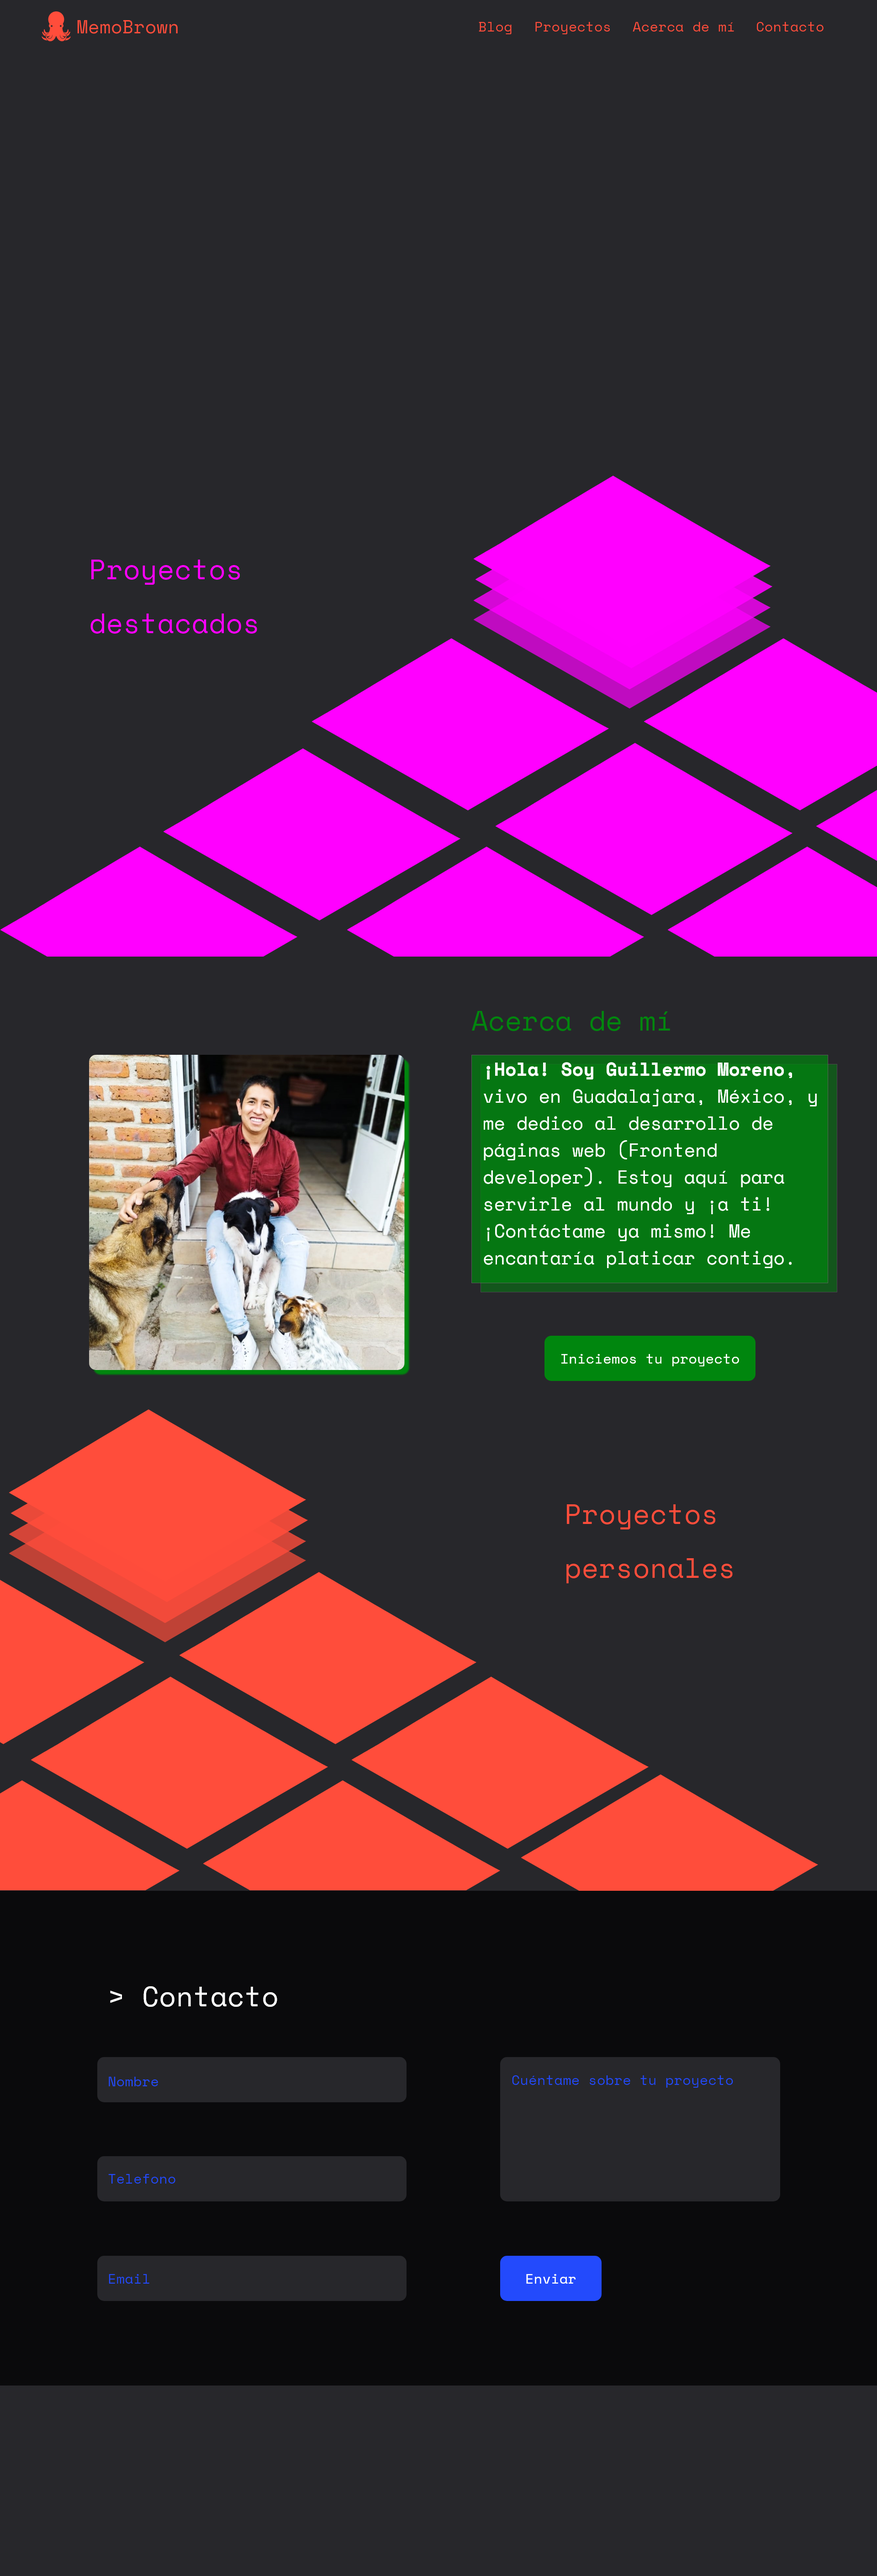
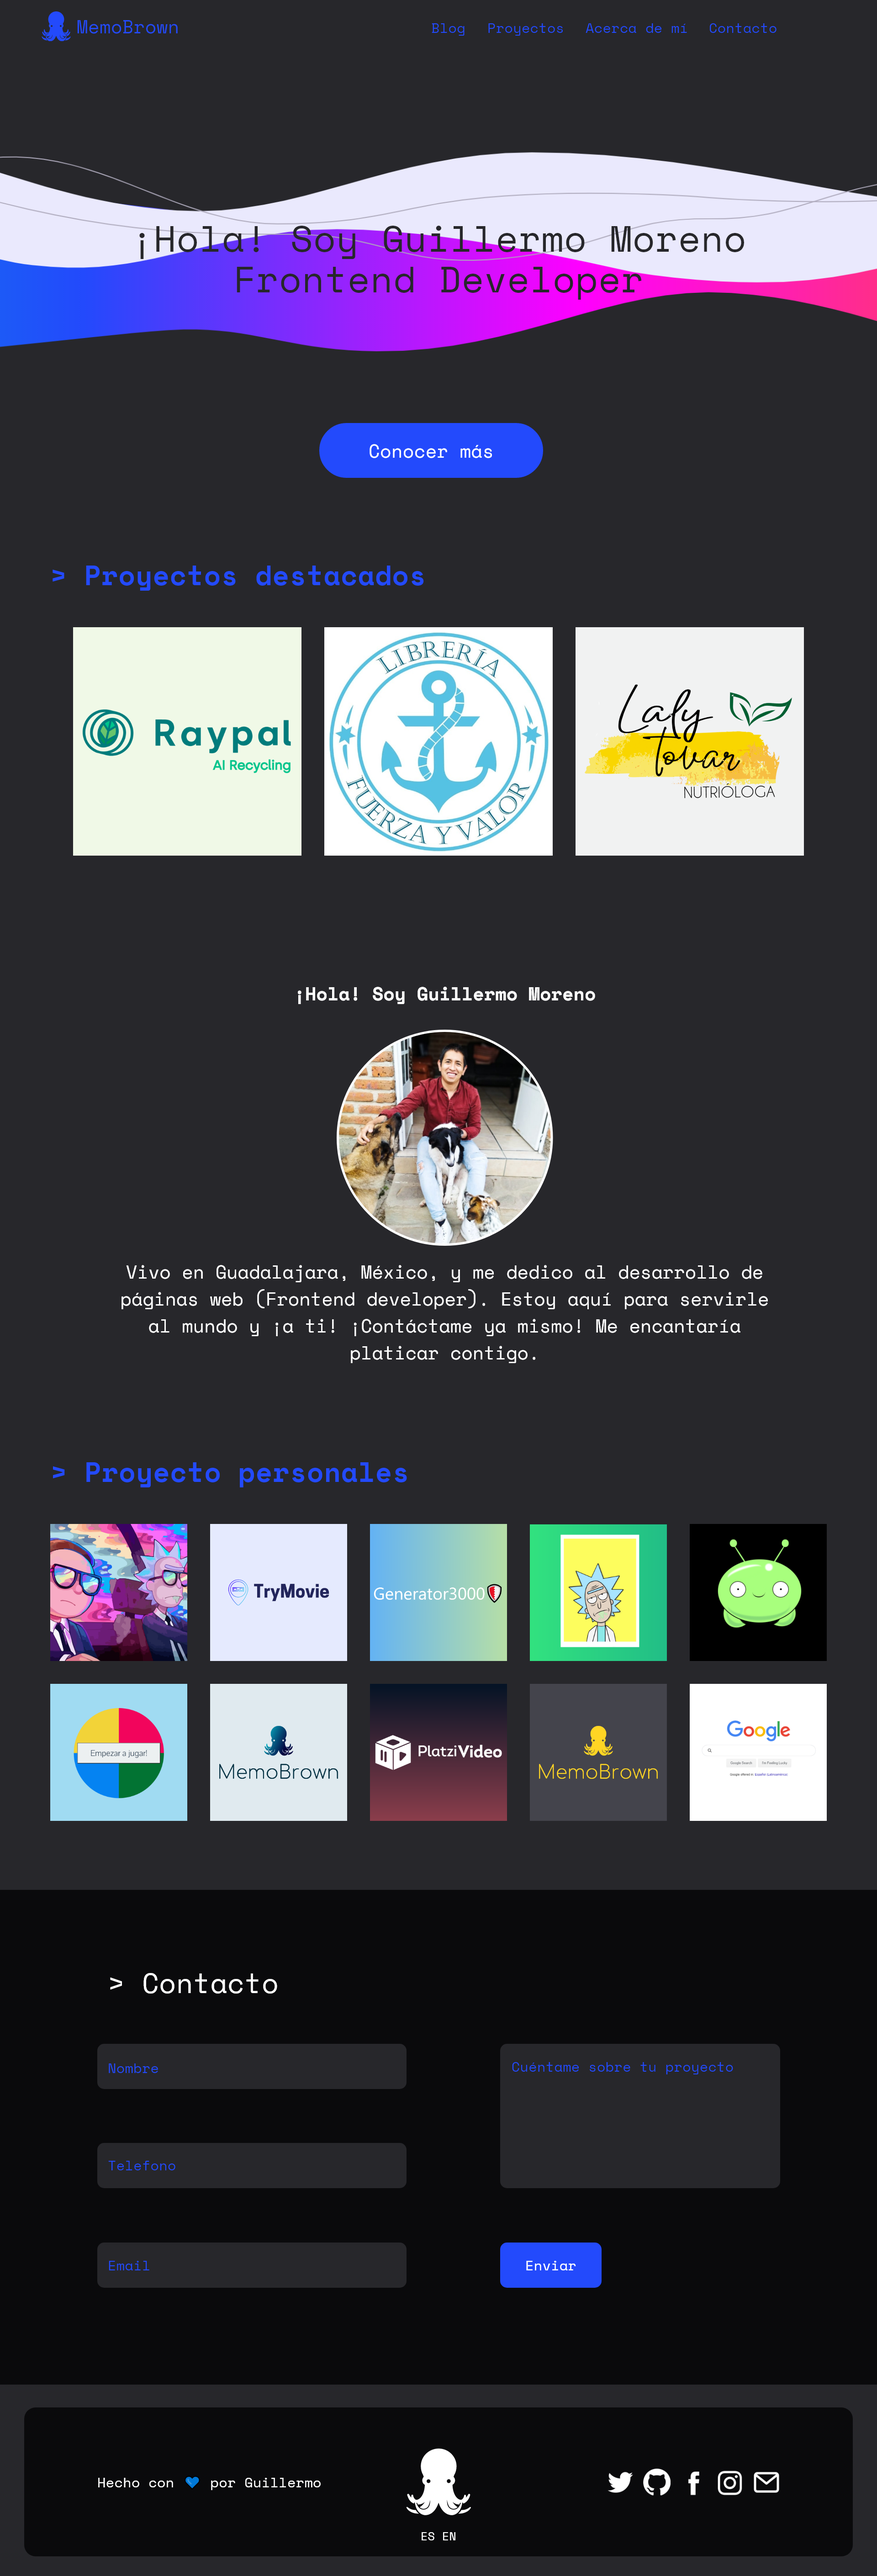
html structure done

diff --git a/index.html b/index.html
@@ -1,0 +1,76 @@
+<!DOCTYPE html>
+<html lang="en">
+<head>
+    <meta charset="UTF-8">
+    <meta name="viewport" content="width=device-width, initial-scale=1.0">
+    <title>Guillermo Moreno | Frontend Developer</title>
+</head>
+<body>
+
+    <header class="header">
+        <figure><img src="src/images/logo.png" alt="Logo"></figure>
+        <nav class="nav">
+            <a href="#">Blog</a>
+            <a href="#">Proyectos</a>
+            <a href="#">Acerca de mí</a>
+            <a href="#">Contacto</a>
+            <a href="#">Dark</a>
+            <a href="#">Light</a>
+        </nav>
+    </header>
+
+    <div class="hero">
+        <h1 class="hero-title">¡Hola! Soy Guillermo Moreno<br>Frontend Developer</h1>
+        <a class="group" id="page-wrap" rel="external noopener"><svg class="logo" width="102" height="96" viewBox="0 0 85 80" preserveAspectRatio="xMinYMin meet"></svg><div id="inner-wrap"><svg class="waves" width="1440" height="321.75" viewBox="0 0 960 214.5" preserveAspectRatio="xMinYMid meet"><defs><style>.waves>path{-webkit-animation:a 17390ms ease-in-out infinite alternate-reverse both;-moz-animation:a 17390ms ease-in-out infinite alternate-reverse both;-ms-animation:a 17390ms ease-in-out infinite alternate-reverse both;-o-animation:a 17390ms ease-in-out infinite alternate-reverse both;animation:a 17390ms ease-in-out infinite alternate-reverse both;-webkit-animation-timing-function:cubic-bezier(.25,0,.75,1);-moz-animation-timing-function:cubic-bezier(.25,0,.75,1);-ms-animation-timing-function:cubic-bezier(.25,0,.75,1);-o-animation-timing-function:cubic-bezier(.25,0,.75,1);animation-timing-function:cubic-bezier(.25,0,.75,1);-webkit-will-change:transform;-moz-will-change:transform;-ms-will-change:transform;-o-will-change:transform;will-change:transform}.waves>path:nth-of-type(1){-webkit-animation-duration:20580ms;-moz-animation-duration:20580ms;-ms-animation-duration:20580ms;-o-animation-duration:20580ms;animation-duration:20580ms}.waves>path:nth-of-type(2){-webkit-animation-delay:-2690ms;-moz-animation-delay:-2690ms;-ms-animation-delay:-2690ms;-o-animation-delay:-2690ms;animation-delay:-2690ms;-webkit-animation-duration:13580ms;-moz-animation-duration:13580ms;-ms-animation-duration:13580ms;-o-animation-duration:13580ms;animation-duration:13580ms}g>path:nth-of-type(1){-webkit-animation-delay:-820ms;-moz-animation-delay:-820ms;-ms-animation-delay:-820ms;-o-animation-delay:-820ms;animation-delay:-820ms;-webkit-animation-duration:10730ms;-moz-animation-duration:10730ms;-ms-animation-duration:10730ms;-o-animation-duration:10730ms;animation-duration:10730ms}.waves>path:nth-of-type(1),g>path:nth-of-type(2){-webkit-animation-direction:alternate;-moz-animation-direction:alternate;-ms-animation-direction:alternate;-o-animation-direction:alternate;animation-direction:alternate}@-webkit-keyframes a{0%{-webkit-transform:translateX(-750px);transform:translateX(-750px)}100%{-webkit-transform:translateX(-20px);transform:translateX(-20px)}}@-moz-keyframes a{0%{-moz-transform:translateX(-750px);transform:translateX(-750px)}100%{-moz-transform:translateX(-20px);transform:translateX(-20px)}}@-ms-keyframes a{0%{-ms-transform:translateX(-750px);transform:translateX(-750px)}100%{-ms-transform:translateX(-20px);transform:translateX(-20px)}}@-o-keyframes a{0%{-o-transform:translateX(-750px);transform:translateX(-750px)}100%{-o-transform:translateX(-20px);transform:translateX(-20px)}}@keyframes a{0%{-webkit-transform:translateX(-750px);-moz-transform:translateX(-750px);-ms-transform:translateX(-750px);-o-transform:translateX(-750px);transform:translateX(-750px)}100%{-webkit-transform:translateX(-20px);-moz-transform:translateX(-20px);-ms-transform:translateX(-20px);-o-transform:translateX(-20px);transform:translateX(-20px)}}</style><linearGradient id="a"><stop stop-color="#00A8DE"/><stop offset="0.2" stop-color="#234AFC"/><stop offset="0.4" stop-color="#FF00FF"/><stop offset="0.6" stop-color="#FF4D3B"/></linearGradient></defs><path fill="url(#a)" d="M2662.6 1S2532 41.2 2435 40.2c-19.6-.2-37.3-1.3-53.5-2.8 0 0-421.3-59.4-541-28.6-119.8 30.6-206.2 75.7-391 73.3-198.8-2-225.3-15-370.2-50-145-35-218 37-373.3 36-19.6 0-37.5-1-53.7-3 0 0-282.7-36-373.4-38C139 26 75 46-1 46v106c17-1.4 20-2.3 37.6-1.2 130.6 8.4 210 56.3 287 62.4 77 6 262-25 329.3-23.6 67 1.4 107 22.6 193 23.4 155 1.5 249-71 380-62.5 130 8.5 209 56.3 287 62.5 77 6 126-18 188-18 61.4 0 247-38 307.4-46 159.3-20 281.2 29 348.4 30 67 2 132.2 6 217.4 7 39.3 0 87-11 87-11V1z"/><path fill="#EAE9FD" d="M2663.6 73.2S2577 92 2529 89c-130.7-8.5-209.5-56.3-286.7-62.4s-125.7 18-188.3 18c-5 0-10-.4-14.5-.7-52-5-149.2-43-220.7-39-31.7 2-64 14-96.4 30-160.4 80-230.2-5.6-340.4-18-110-12-146.6 20-274 36S820.4 0 605.8 0C450.8 0 356 71 225.2 62.2 128 56 60.7 28-.3 11.2V104c22 7.3 46 14.2 70.4 16.7 110 12.3 147-19.3 275-35.5s350 39.8 369 43c27 4.3 59 8 94 10 13 .5 26 1 39 1 156 2 250-70.3 381-62 130.5 8.2 209.5 56.3 286.7 62 77 6.4 125.8-18 188.3-17.5 5 0 10 .2 14.3.6 52 5 145 49.5 220.7 38.2 32-5 64-15 96.6-31 160.5-79.4 230.3 6 340 18.4 110 12 146.3-20 273.7-36l15.5-2V73l1-.5z"/><g fill="none" stroke="#ADA9BB" stroke-width="1"><path d="M0 51.4c3.4.6 7.7 1.4 11 2.3 133.2 34 224.3 34 308.6 34 110.2 0 116.7 36.6 229.8 26 113-11 128.7-44 222-42.6C865 73 889 38 1002 27c113-10.8 119.6 25.6 229.8 25.6 84.4 0 175.4 0 308.6 34 133 34.2 277-73 379.4-84.3 204-22.5 283.6 128.7 283.6 128.7"/><path d="M0 6C115.7-6 198.3 76.6 308 76.6c109.6 0 131.8-20 223-28.3 114.3-10.2 238.2 0 238.2 0s124 10.2 238.3 0c91-8.2 113.2-28 223-28S1425 103 1541 91c115.8-11.8 153.3-69 269.3-84.6 116-15.5 198.4 71 308 71 109.8 0 131.8-20 223-28 114-10.2 237.7 0 237.7 0s37.4 2.4 82.8 3.7"/></g></svg><svg class="text" width="1440" height="321.75" viewBox="0 0 1440 321.8" preserveAspectRatio="xMidYMid meet"></svg></div></a>
+        <a href="#">Conocer más</a>
+    </div>
+
+    <section class="projects">
+        <h1 class="projects-title">> Proyectos Destacados</h1>
+        <figure>
+            <img src="src/images/fyv.png" alt="">
+            <img src="src/images/raypal.png" alt="">
+            <img src="src/images/laly.png" alt="">
+        </figure>
+    </section>
+
+    <section class="aboutMe">
+        <h1 class="aboutMe-title">¡Hola! Soy Guillermo Moreno</h1>
+        <img src="src/images/vOc6EgX.jpg" alt="">
+        <p class="aboutMe-desc">
+            Vivo en Guadalajara, México, y me dedico al desarrollo de páginas web (Frontend developer). Estoy aquí para servirle al mundo y ¡a ti! ¡Contáctame ya mismo! Me encantaría platicar contigo.
+        </p>
+    </section>
+
+    <section class="personal-projects">
+        <h1 class="pp-title">> Proyecto personales</h1>
+        <img src="src/images/spa.png" alt="">
+        <img src="src/images/trymovie.png" alt="">
+        <img src="src/images/generator.png" alt="">
+        <img src="src/images/rick.png" alt="">
+        <img src="src/images/mooncake.png" alt="">
+        <img src="src/images/simon.png" alt="">
+        <img src="src/images/mb-blue.png" alt="">
+        <img src="src/images/plv.png" alt="">
+        <img src="src/images/mb-yellow.png" alt="">
+        <img src="src/images/google-clone.png" alt="">
+    </section>
+
+    <section class="form">
+        <h1 class="form-title">> Contacto</h1>
+        <form action="enviar.php" method="post">
+            <input type="text" id="names" name="nombre" placeholder="Nombre *" required>
+            <input type="text" id="phone" name="telefono" placeholder="WhatsApp *" required>
+            <input type="text" id="email" name="correo" placeholder="Correo electrónico">
+            <textarea id="mensaje"  name="mensaje" class="details-form" placeholder="Detalles de tu proyecto *" required></textarea>
+            <input type="submit" value="Enviar" id="btnSend" class="details-btn">
+        </form>
+    </section>
+
+    <footer class="footer">
+        <h3>Hecho con 💙 por Guillermo</h3>
+        <img src="src/images/icon.png" alt="">
+        <img src="src/images/social.png" alt="">
+    </footer>
+</body>
+</html>

diff --git a/prueba.html b/prueba.html
@@ -1,0 +1,177 @@
+<!DOCTYPE html>
+<html lang="en">
+<head>
+    <meta charset="UTF-8">
+    <meta name="viewport" content="width=device-width, initial-scale=1.0">
+    <title>Document</title>
+    <style>
+        :root {
+	-webkit-box-sizing: border-box;
+	-moz-box-sizing: border-box;
+	-ms-box-sizing: border-box;
+	-o-box-sizing: border-box;
+	box-sizing: border-box;
+	cursor: default;
+	-webkit-user-select: none;
+	-moz-user-select: none;
+	-ms-user-select: none;
+	-o-user-select: none;
+	user-select: none;
+}
+
+*,
+:before,
+:after {
+	-webkit-box-sizing: inherit;
+	-moz-box-sizing: inherit;
+	-ms-box-sizing: inherit;
+	-o-box-sizing: inherit;
+	box-sizing: inherit;
+}
+
+html, body {
+	position: absolute;
+	top: 0;
+	right: 0;
+	bottom: 0;
+	left: 0;
+	display: block;
+	width: 100%;
+	height: 100%;
+}
+
+html {
+	overflow: hidden;
+}
+
+body {
+	margin: 0;
+	overflow: auto;
+	overflow-x: hidden;
+	overflow-y: scroll;
+	-webkit-overflow-scrolling: touch;
+	-moz-overflow-scrolling: touch;
+	-ms-overflow-scrolling: touch;
+	-o-overflow-scrolling: touch;
+	overflow-scrolling: touch;
+	-ms-overflow-style: ms-autohiding-scrollbar;
+}
+
+#page-wrap {
+	position: relative;
+	display: block;
+	clear: both;
+	background: none;
+	color: #000;
+	text-decoration: none;
+	padding: 3rem 0;
+	width: 100%;
+	height: 100%;
+}
+
+#inner-wrap {
+	position: absolute;
+	top: 3rem;
+	left: 0;
+	right: 0;
+	bottom: 3rem;
+	display: table;
+	width: 100%;
+	height: 100%;
+	min-height: 322px;
+	overflow: visible;
+}
+
+.logo {
+	position: absolute;
+	z-index: 1;
+	top: 3rem;
+	left: 2rem;
+	display: block;
+	width: 9vmax;
+	height: 9vmax;
+	min-width: 50px;
+	min-height: 50px;
+}
+
+.waves {
+	position: absolute;
+	top: 0;
+	left: 0;
+	right: 0;
+	bottom: 0;
+	display: block;
+	min-width: 100%;
+	min-height: 70%;
+	margin: auto 0;
+}
+
+.text {
+	position: absolute;
+	top: 0;
+	left: 0;
+	right: 0;
+	bottom: 0;
+	display: block;
+	width: 83%;
+	height: 100%;
+	margin: auto;
+}
+
+img, svg {
+	display: block;
+	overflow: visible;
+	pointer-events: none;
+}
+
+.group:before,
+.group:after {
+  content: "";
+  display: table;
+  clear: both;
+}
+.group {
+  zoom: 1;
+}
+
+
+
+
+
+.credits {
+	position: relative;
+	z-index: 9;
+	font-size: 130%;
+	text-align: center;
+	width: 100%;
+	padding: 2rem 0;
+}
+
+.credits a {
+	display: inline-block;
+	color: #df1888;
+	font-family: Arial, sans-serif;
+	line-height: 1.5em;
+	text-decoration: none !important;
+	white-space: nowrap;
+	margin: 0 1.2em;
+	padding: 0.6em 0;
+	transition: 150ms;
+}
+
+.credits a:hover {
+	color: #2d71b9;
+	cursor: pointer;
+}
+
+.credits-logo {
+	fill: currentColor;
+	display: inline-block;
+	vertical-align: bottom;
+	width: 1.6em;
+	height: 1.6em;
+	margin: 0 0.5em 0 0;
+}
+    </style>
+</head>
+<body>
